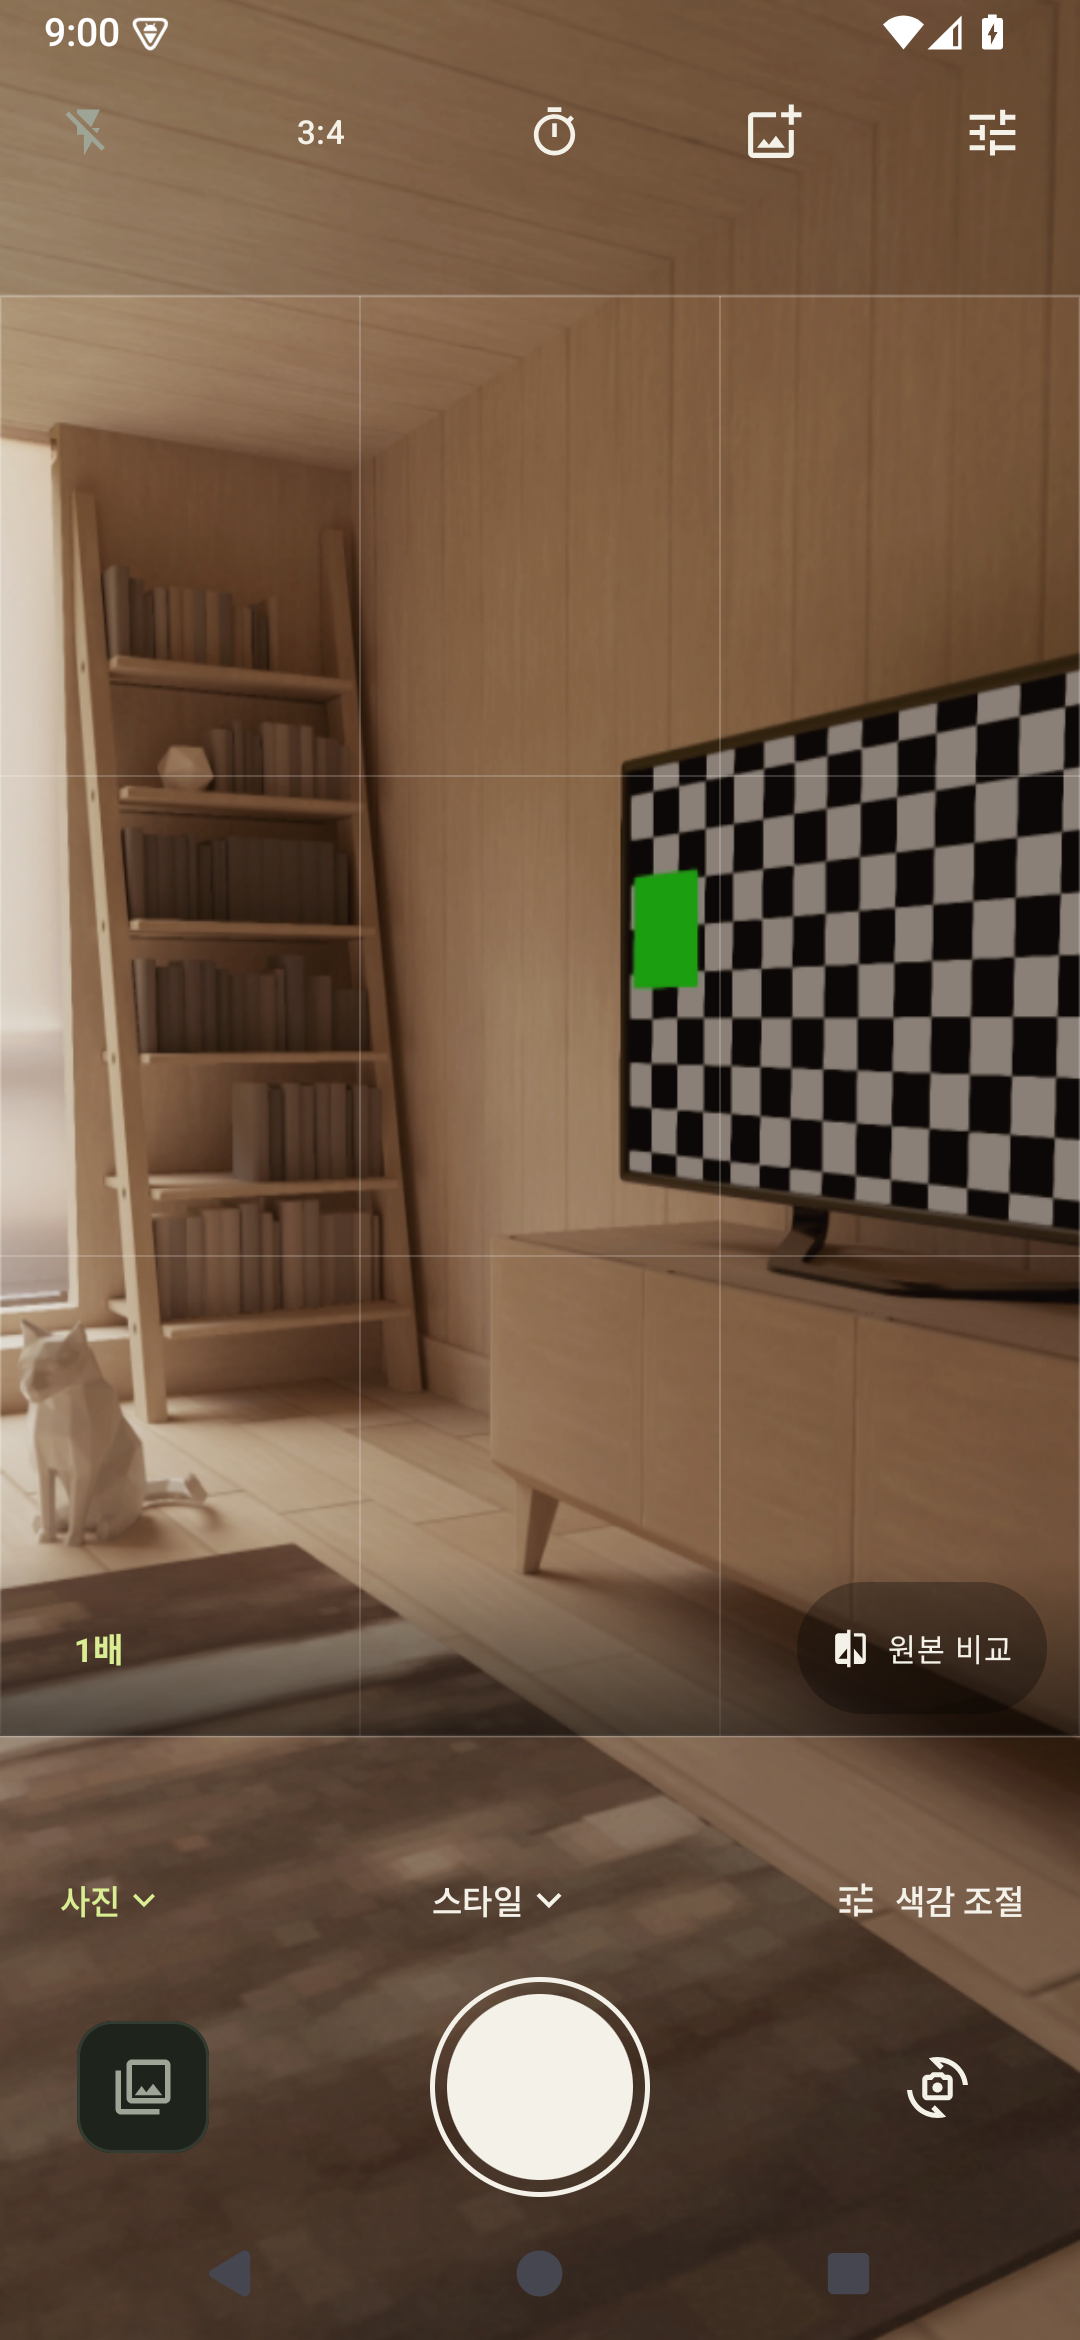
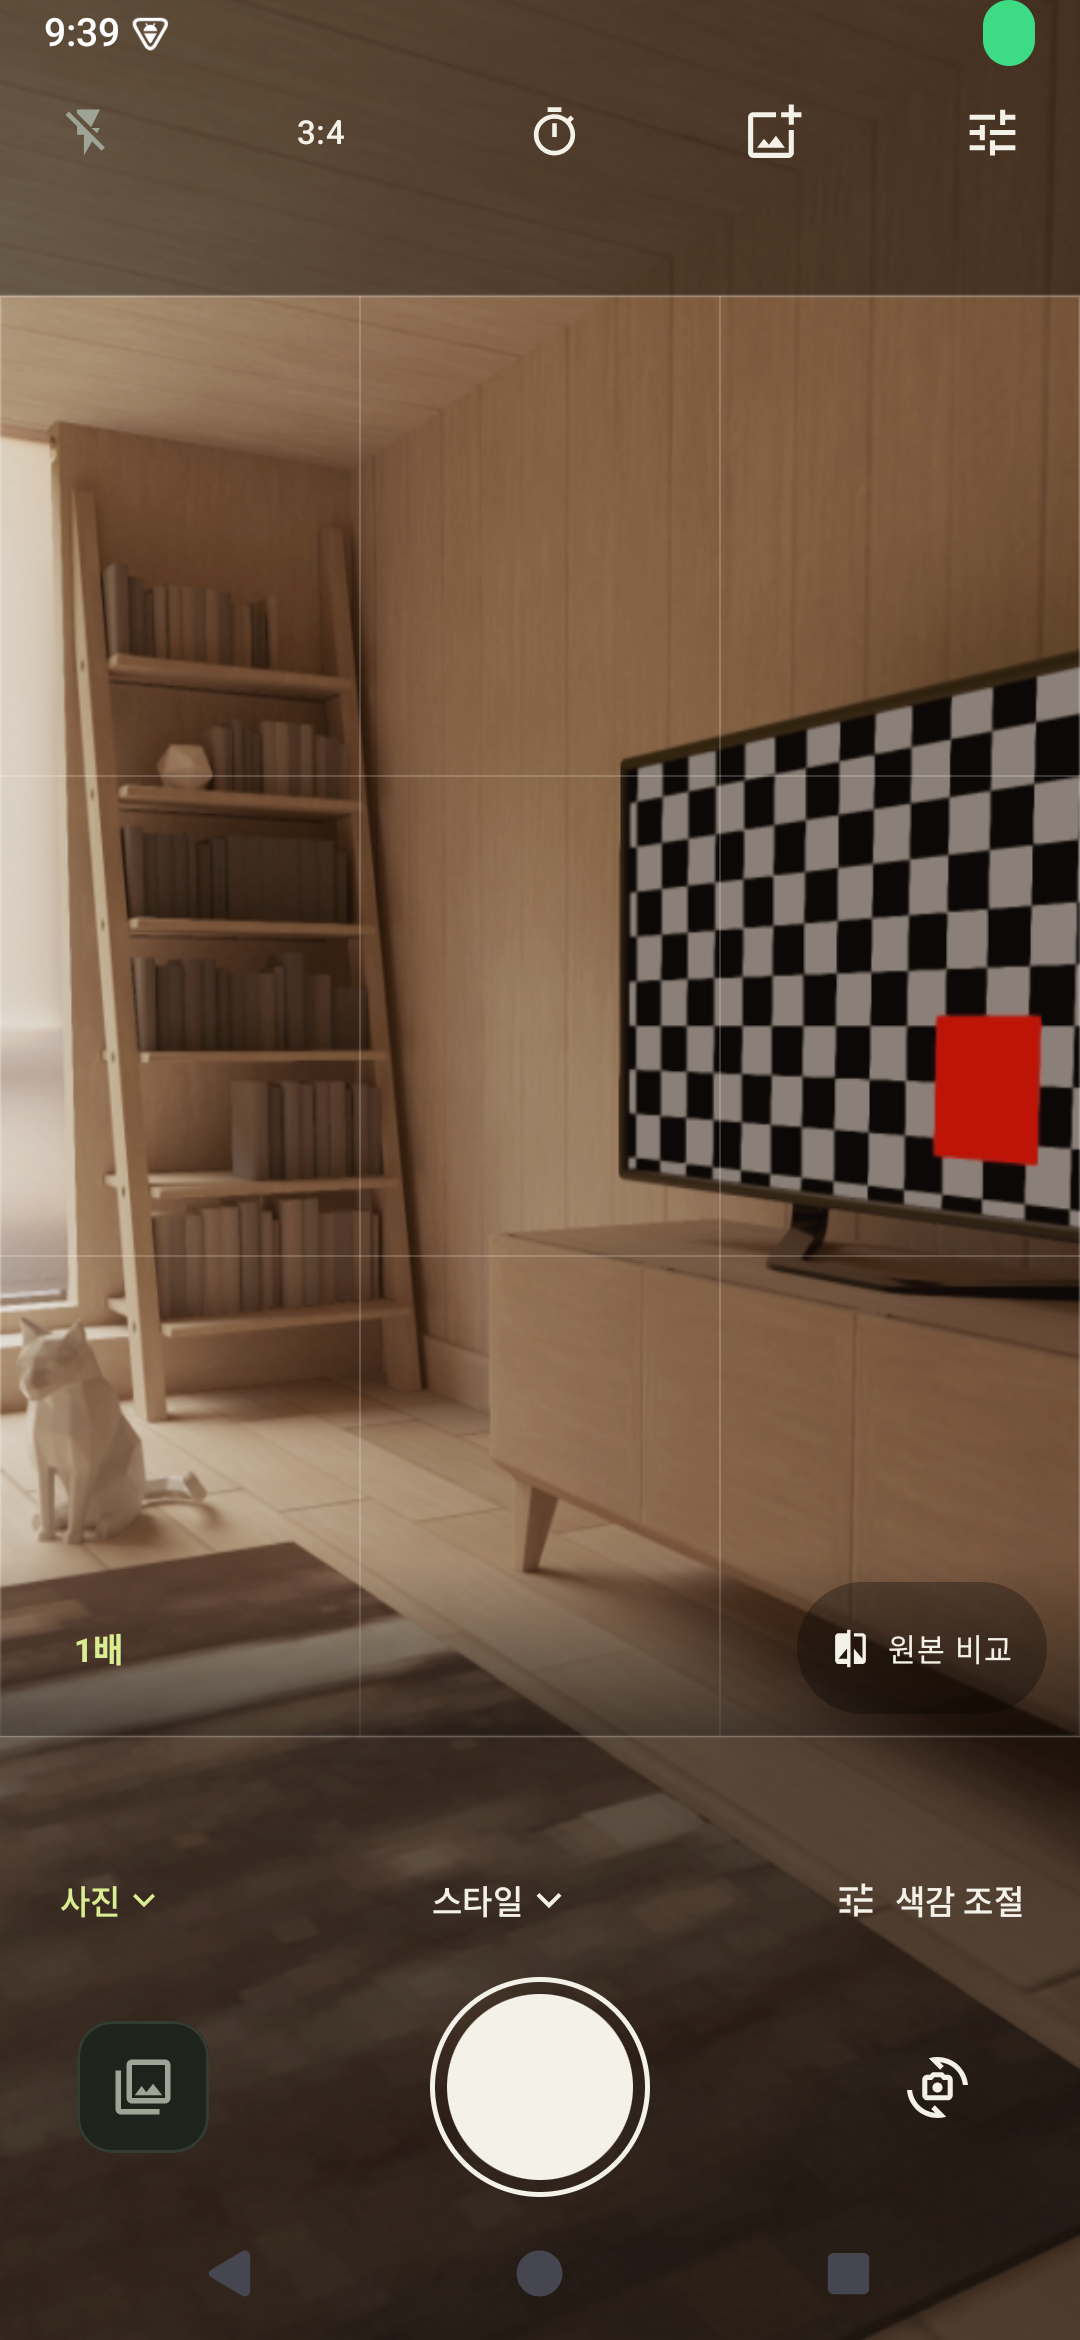
fix: open recent photos directly in gallery and dim camera surround

diff --git a/app/src/main/java/studio/moment/camera/ui/MomentApp.kt b/app/src/main/java/studio/moment/camera/ui/MomentApp.kt
@@ -3,6 +3,7 @@ package studio.moment.camera.ui
 import android.Manifest
 import android.app.Activity
 import android.content.Intent
+import android.content.ActivityNotFoundException
 import android.content.pm.PackageManager
 import android.graphics.Bitmap
 import android.net.Uri
@@ -73,7 +74,6 @@ import androidx.compose.ui.unit.dp
 import androidx.compose.ui.unit.IntSize
 import androidx.compose.ui.unit.sp
 import androidx.compose.ui.viewinterop.AndroidView
-import androidx.compose.ui.window.Dialog
 import androidx.core.app.ActivityCompat
 import androidx.core.content.ContextCompat
 import androidx.lifecycle.Lifecycle
@@ -138,7 +138,6 @@ fun MomentApp(model: MomentViewModel) = MomentTheme {
     fun endComparison() { compareLocked = false; comparePressed = false }
     fun selectLook(id: String) { endComparison(); model.selectLook(id) }
     var focus by remember { mutableStateOf<Offset?>(null) }
-    var photoOpen by remember { mutableStateOf(false) }
     var latestBitmap by remember { mutableStateOf<Bitmap?>(null) }
     var latestRefresh by remember { mutableIntStateOf(0) }
     var permission by remember { mutableStateOf(ContextCompat.checkSelfPermission(context, Manifest.permission.CAMERA) == PackageManager.PERMISSION_GRANTED) }
@@ -175,7 +174,7 @@ fun MomentApp(model: MomentViewModel) = MomentTheme {
     }
 
     val volumeAction by rememberUpdatedState(newValue = {
-        if (!prefs.volumeShutter || imported != null || tuning || sheet != null || photoOpen || !permission ||
+        if (!prefs.volumeShutter || imported != null || tuning || sheet != null || !permission ||
             !owner.lifecycle.currentState.isAtLeast(Lifecycle.State.RESUMED)) false
         else if (countdown > 0) { model.cancelTimer(); true }
         else if (status.ready) { triggerShutter(); true }
@@ -199,7 +198,7 @@ fun MomentApp(model: MomentViewModel) = MomentTheme {
     LaunchedEffect(latest, latestRefresh) {
         val uri = latest
         latestBitmap = uri?.let { model.thumbnail(it) }
-        if (uri != null && latestBitmap == null) { model.forgetMissingPhoto(uri); photoOpen = false }
+        if (uri != null && latestBitmap == null) model.forgetMissingPhoto(uri)
     }
     DisposableEffect(owner, engine) {
         val observer = LifecycleEventObserver { _, event ->
@@ -235,7 +234,7 @@ fun MomentApp(model: MomentViewModel) = MomentTheme {
                         translationX = if (tuning) displayedFrame.left - normal.left * scale else 0f
                         translationY = if (tuning) displayedFrame.top - normal.top * scale else 0f
                     })
-                CameraSurround(displayedFrame, if (tuning) 1f else .10f)
+                CameraSurround(displayedFrame, if (tuning) 1f else .40f)
             }
         BoxWithConstraints(Modifier.fillMaxSize().safeDrawingPadding()) {
             val contentHeight = maxOf(maxHeight, (if (tuning) 420.dp * textScale else 480.dp))
@@ -413,7 +412,16 @@ fun MomentApp(model: MomentViewModel) = MomentTheme {
                     Row(Modifier.fillMaxWidth().height(88.dp).padding(horizontal = 28.dp), horizontalArrangement = Arrangement.SpaceBetween, verticalAlignment = Alignment.CenterVertically) {
                         Box(Modifier.size(48.dp).clip(RoundedCornerShape(13.dp)).background(Panel).border(1.dp, Line, RoundedCornerShape(13.dp))
                             .clickable(enabled = !busy, role = Role.Button, onClick = {
-                                if (latest != null) photoOpen = true else picker.launch(PickVisualMediaRequest(ActivityResultContracts.PickVisualMedia.ImageOnly))
+                                val uri = latest
+                                if (uri == null) picker.launch(PickVisualMediaRequest(ActivityResultContracts.PickVisualMedia.ImageOnly))
+                                else try {
+                                    context.startActivity(Intent(Intent.ACTION_VIEW).setDataAndType(uri, "image/*")
+                                        .addFlags(Intent.FLAG_GRANT_READ_URI_PERMISSION))
+                                } catch (_: ActivityNotFoundException) {
+                                    model.notice("사진을 열 수 있는 갤러리 앱이 없어요.")
+                                } catch (_: Exception) {
+                                    model.notice("사진을 열지 못했어요. 갤러리에서 사진이 삭제되지 않았는지 확인해 주세요.")
+                                }
                             }).semantics { contentDescription = if (latest != null) "최근 사진" else "사진 가져오기" }, contentAlignment = Alignment.Center) {
                             if (latestBitmap != null) Image(latestBitmap!!.asImageBitmap(), null, Modifier.fillMaxSize(), contentScale = ContentScale.Crop)
                             else Icon(Icons.Outlined.PhotoLibrary, null, tint = Muted)
@@ -439,9 +447,6 @@ fun MomentApp(model: MomentViewModel) = MomentTheme {
             MomentSheet(selected, prefs, status, onDismiss = { sheet = null }, onUpdate = model::update,
                 onLook = ::selectLook, onMode = { mode = it; sheet = null },
                 onAbout = { sheet = Sheet.ABOUT })
-        }
-        if (photoOpen && latest != null) PhotoDialog(latest!!, latestBitmap, { photoOpen = false }) { intent ->
-            runCatching { context.startActivity(intent) }.onFailure { model.notice("사진을 열지 못했어요. 갤러리에서 사진이 삭제되지 않았는지 확인해 주세요.") }
         }
     }
 }
@@ -584,26 +589,6 @@ private fun CameraMessage(title: String, body: String, action: String, onClick: 
         Text(title, color = Cream, fontSize = 18.sp)
         Text(body, color = Muted, fontSize = 12.sp, textAlign = TextAlign.Center, modifier = Modifier.padding(vertical = 12.dp))
         TextButton(onClick) { Text(action) }
-    }
-}
-
-@Composable
-private fun PhotoDialog(uri: Uri, bitmap: Bitmap?, onDismiss: () -> Unit, launch: (Intent) -> Unit) {
-    Dialog(onDismissRequest = onDismiss) {
-        Column(Modifier.clip(RoundedCornerShape(24.dp)).background(Panel).padding(16.dp), horizontalAlignment = Alignment.CenterHorizontally) {
-            Row(Modifier.fillMaxWidth(), verticalAlignment = Alignment.CenterVertically) {
-                Text("최근 저장한 사진", color = Cream, modifier = Modifier.weight(1f))
-                ToolIcon(Icons.Outlined.Close, "닫기", onClick = onDismiss)
-            }
-            bitmap?.let { Image(it.asImageBitmap(), "최근 저장한 사진", Modifier.fillMaxWidth().heightIn(max = 420.dp).clip(RoundedCornerShape(12.dp)), contentScale = ContentScale.Fit) }
-            Row(Modifier.fillMaxWidth().padding(top = 12.dp), horizontalArrangement = Arrangement.SpaceEvenly) {
-                TextButton(onClick = { launch(Intent(Intent.ACTION_VIEW).setDataAndType(uri, "image/*").addFlags(Intent.FLAG_GRANT_READ_URI_PERMISSION)) }) { Text("갤러리에서 열기") }
-                TextButton(onClick = { launch(Intent.createChooser(Intent(Intent.ACTION_SEND).setType("image/jpeg").putExtra(Intent.EXTRA_STREAM, uri)
-                    .apply { clipData = android.content.ClipData.newRawUri("사진", uri) }.addFlags(Intent.FLAG_GRANT_READ_URI_PERMISSION), "사진 공유")) }) {
-                    Icon(Icons.Outlined.IosShare, null, Modifier.size(17.dp)); Text("  공유")
-                }
-            }
-        }
     }
 }
 

diff --git a/docs/PLAY_INTERNAL_TESTING.md b/docs/PLAY_INTERNAL_TESTING.md
@@ -1,8 +1,8 @@
 # Google Play 내부 테스트
 
-업로드용 키로 서명한 AAB를 [GitHub Releases](https://github.com/hyunjun1234/Iphone_camera/releases/tag/v0.2.4)에서 받을 수 있습니다. GitHub에 파일을 올리는 작업과 Play Console에 내부 테스트 버전을 게시하는 작업은 별개입니다. Console 등록은 아래 순서대로 직접 진행합니다.
+업로드용 키로 서명한 AAB를 [GitHub Releases](https://github.com/hyunjun1234/Iphone_camera/releases/tag/v0.2.5)에서 받을 수 있습니다. GitHub에 파일을 올리는 작업과 Play Console에 내부 테스트 버전을 게시하는 작업은 별개입니다. Console 등록은 아래 순서대로 직접 진행합니다.
 
-- [Play Console 업로드용 AAB 다운로드](https://github.com/hyunjun1234/Iphone_camera/releases/download/v0.2.4/moment-0.2.4-6.aab)
+- [Play Console 업로드용 AAB 다운로드](https://github.com/hyunjun1234/Iphone_camera/releases/download/v0.2.5/moment-0.2.5-7.aab)
 
 **App Bundle 업로드란에는 `.aab` 파일 하나만 선택합니다.** APK는 휴대폰에 직접 설치할 때 쓰는 파일입니다. 이번 GitHub 릴리스에는 Console 업로드용 AAB와 체크섬을 첨부했습니다.
 
@@ -12,19 +12,19 @@
 | --- | --- |
 | 앱 이름 | 모먼트 |
 | 패키지 이름 | `studio.moment.camera` |
-| 버전 | `0.2.4` |
-| 버전 코드 | `6` |
+| 버전 | `0.2.5` |
+| 버전 코드 | `7` |
 | 대상 SDK | Android 16, API 36 |
 | 배포 대상 | 내부 테스트 |
-| Console에 업로드할 파일 | `app/build/outputs/play/moment-0.2.4-6.aab` |
-| 직접 설치할 파일 | `app/build/outputs/play/moment-0.2.4-6.apk` |
+| Console에 업로드할 파일 | `app/build/outputs/play/moment-0.2.5-7.aab` |
+| 직접 설치할 파일 | `app/build/outputs/play/moment-0.2.5-7.apk` |
 
 이 경로들은 로컬 빌드 결과이며 Git에 포함하지 않습니다. 같은 폴더의 `release-info.json`에 파일별 SHA-256과 업로드 인증서 지문이 있습니다. `uploadedToGooglePlay: false`는 파일 생성만 완료했다는 뜻입니다. 이 값은 실제 Console 배포 상태를 조회한 결과가 아닙니다.
 
 ## 업로드 오류가 표시될 때
 
 - **유효한 App Bundle을 업로드하세요:** 선택한 파일의 확장자가 `.aab`인지 확인합니다. APK 파일을 App Bundle 입력란에 함께 올리지 않습니다.
-- **3 버전 코드는 이미 사용되었습니다:** Console에 이미 사용된 버전 코드입니다. 새로 업로드하려면 버전 코드를 높여 빌드해야 합니다. 이번 `moment-0.2.4-6.aab`에는 버전 코드 `6`가 들어 있습니다. 파일 이름이나 Console의 출시명만 바꿔서는 해결되지 않습니다.
+- **3 버전 코드는 이미 사용되었습니다:** Console에 이미 사용된 버전 코드입니다. 새로 업로드하려면 버전 코드를 높여 빌드해야 합니다. 이번 `moment-0.2.5-7.aab`에는 버전 코드 `7`가 들어 있습니다. 파일 이름이나 Console의 출시명만 바꿔서는 해결되지 않습니다.
 - 버전 코드 3의 AAB가 이미 정상 등록돼 있고 같은 파일을 다시 쓰려는 경우에는 새 업로드 대신 **라이브러리에서 추가**로 선택할 수 있습니다.
 
 [버전 코드 안내](https://developer.android.com/studio/publish/versioning), [버전 준비 및 출시 안내](https://support.google.com/googleplay/android-developer/answer/9859348?hl=ko)
@@ -60,8 +60,8 @@ Google Play는 업로드 키와 배포 시 사용하는 앱 서명 키를 구분
 내부 테스트는 앱 설정을 모두 마치기 전에도 사용할 수 있고, 최대 100명의 테스트 계정에 배포할 수 있습니다. [Google 내부 테스트 안내](https://support.google.com/googleplay/android-developer/answer/9845334?hl=ko)
 
 1. Google Play 개발자 계정으로 Console에 로그인합니다. 새 앱이면 이름을 ‘모먼트’, 기본 언어를 한국어로 설정하고 앱 유형과 가격 등 등록 정보를 정합니다. 같은 패키지의 앱이 이미 있으면 그 앱을 엽니다.
-2. **테스트 및 출시 → 테스트 → 내부 테스트**에서 새 버전을 만들고 Play 앱 서명을 설정합니다. `moment-0.2.4-6.aab`를 업로드합니다. 첫 업로드 후 패키지 이름은 고정되므로 `studio.moment.camera`가 맞는지 확인합니다.
-3. 버전 이름은 `0.2.4 (6)`으로 입력하고, [한국어 출시 노트](../play/ko-KR/release-notes.txt)를 붙여넣습니다. Console의 오류가 있다면 해결한 뒤 내부 테스트 버전을 게시합니다.
+2. **테스트 및 출시 → 테스트 → 내부 테스트**에서 새 버전을 만들고 Play 앱 서명을 설정합니다. `moment-0.2.5-7.aab`를 업로드합니다. 첫 업로드 후 패키지 이름은 고정되므로 `studio.moment.camera`가 맞는지 확인합니다.
+3. 버전 이름은 `0.2.5 (7)`으로 입력하고, [한국어 출시 노트](../play/ko-KR/release-notes.txt)를 붙여넣습니다. Console의 오류가 있다면 해결한 뒤 내부 테스트 버전을 게시합니다.
 4. **테스터** 탭에서 휴대폰의 Play 스토어에 로그인한 Google 계정을 테스트 목록에 추가하고 목록을 선택해 저장합니다. 기존 테스트 목록을 교체하지 않도록 주의합니다.
 5. Console에 표시되는 테스트 참여 링크를 복사합니다. 같은 Google 계정으로 링크를 열어 테스트에 참여한 뒤 Play 스토어에서 설치합니다. 처음 게시하면 링크나 앱 표시가 반영될 때까지 시간이 걸릴 수 있습니다.
 
@@ -72,7 +72,7 @@ Google Play는 업로드 키와 배포 시 사용하는 앱 서명 키를 구분
 - 최적화된 릴리스 AAB와 APK 빌드 및 서명 검증
 - AAB와 APK의 업로드 인증서 일치, 디버그 서명 사용 여부 확인
 - Google `bundletool` 1.18.3으로 AAB 구조 검증
-- AAB의 패키지 이름, 버전 코드 6, 버전 0.2.4, 대상 API 36 확인
+- AAB의 패키지 이름, 버전 코드 7, 버전 0.2.5, 대상 API 36 확인
 - APK의 ZIP 정렬과 포함된 ARM64 및 x86_64 네이티브 라이브러리의 ELF 16KB 정렬 확인
 - 서명 설정이 없으면 배포 준비 명령과 서명 필수 빌드가 중단되는지 확인
 - 생성된 키와 비밀번호, 빌드 결과가 Git 추적 대상에서 제외되는지 확인

diff --git a/docs/RELEASE_REVIEW.md b/docs/RELEASE_REVIEW.md
@@ -1,5 +1,15 @@
 # 출시 준비 검토
 
+## 버전 0.2.5 최근 사진 열기와 바깥 화면 밝기
+
+검토일: 2026-10-27
+
+셔터 왼쪽의 최근 사진을 누르면 앱의 중간 창 없이 외부 갤러리에서 사진을 바로 엽니다. 기존 ‘갤러리에서 열기’와 같은 ACTION_VIEW 요청에 사진 읽기 권한을 전달합니다. 사진이 아직 없으면 기존 사진 선택기를 열고, 사진을 열 앱이 없으면 한국어로 안내합니다. 공유는 열린 갤러리 앱의 기능을 이용합니다.
+
+촬영 영역 바깥의 검정 음영을 10%에서 40%로 높여 카메라 영상이 약 60% 밝기로 보이도록 바꿨습니다. 촬영 영역 안의 색감과 저장되는 사진에는 이 음영을 적용하지 않습니다.
+
+Android 15 에뮬레이터에 서명된 배포용 APK를 설치해 빈 최근 사진 칸의 사진 선택기, 촬영 후 갤러리 바로 열기, 카메라 복귀 후 재촬영과 새 사진 열기를 확인했습니다. 3:4, 9:16, 1:1 화면을 확인하고 문서의 캡처를 갱신했습니다. 빌드와 린트, AAB 구조와 버전, 기존 업로드 키의 서명도 검증했습니다. 삼성 갤러리의 실제 화면은 갤럭시 기기에서 확인해야 합니다.
+
 ## 버전 0.2.4 촬영 영역 바깥 미리보기
 
 검토일: 2026-10-27
